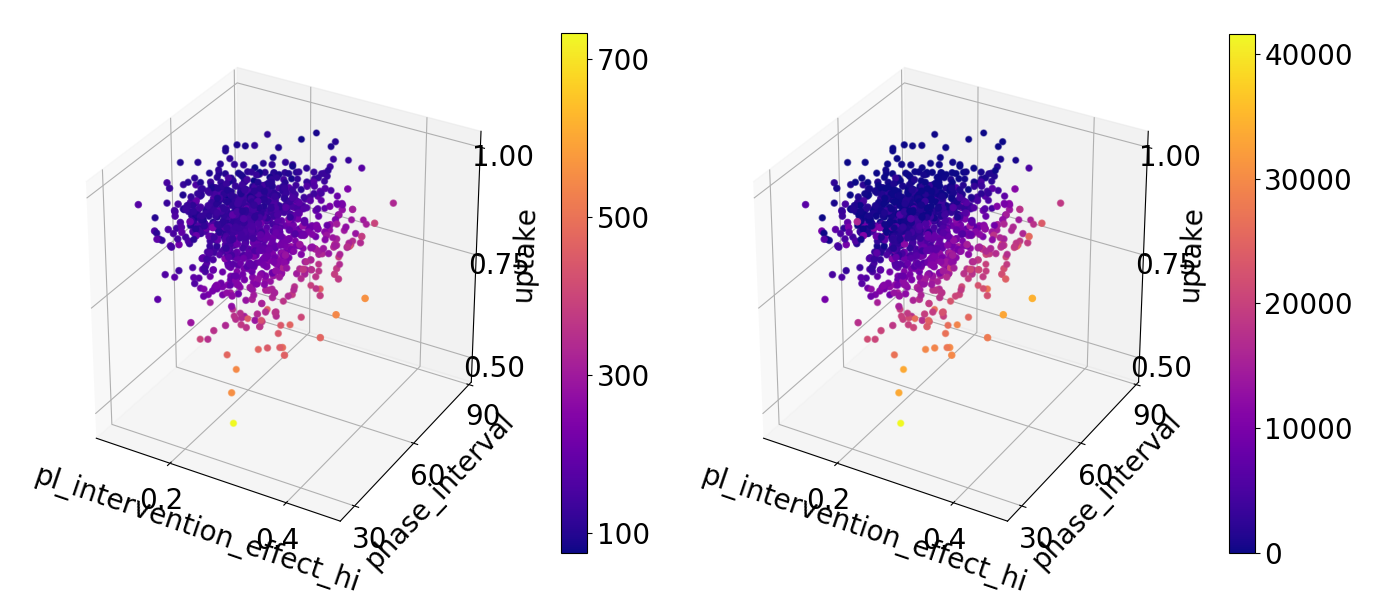
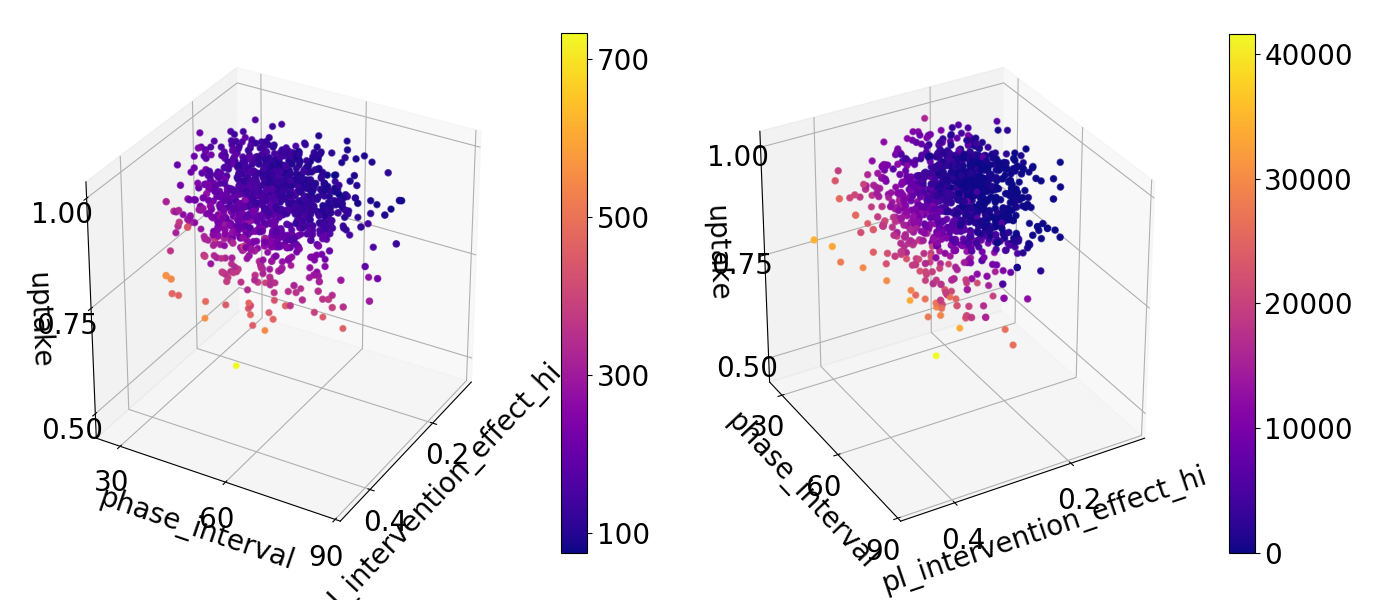
rotate 3d plot

diff --git a/EasyVVUQ/heatmap_PO.py b/EasyVVUQ/heatmap_PO.py
@@ -203,6 +203,7 @@ cbar_p.set_ticklabels(['0', '100', '300', '500', '700'])
 ax_p.set_xticks([0.2, 0.4])
 ax_p.set_yticks([30, 60, 90])
 ax_p.set_zticks([0.5, 0.75, 1])
+ax_p.view_init(azim=30)
 
 ax_e = f.add_subplot(122, xlabel='pl_intervention_effect_hi', ylabel='phase_interval', zlabel='uptake', projection='3d')
 im_e = ax_e.scatter(xs=pl_intervention_effect_hi, ys=phase_interval, zs=uptake, c=IC_ex_max, cmap='plasma')
@@ -212,6 +213,7 @@ cbar_e.set_ticklabels(['0', '10000', '20000', '30000', '40000'])
 ax_e.set_xticks([0.2, 0.4])
 ax_e.set_yticks([30, 60, 90])
 ax_e.set_zticks([0.5, 0.75, 1])
+ax_e.view_init(azim=60)
 
 plt.tight_layout()
 f.savefig('figures/heatmap_PO_MC1000.png')
